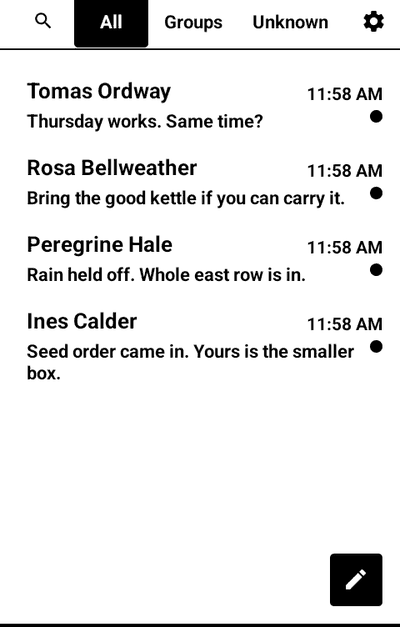
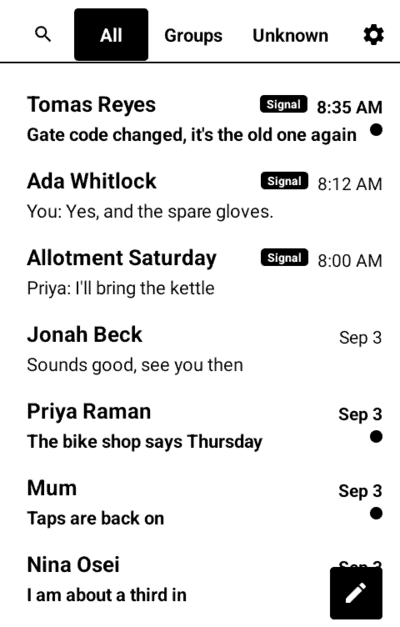
Messaging's card shows the inbox as it is now
Signal and text conversations together, with the badge on the Signal rows,
from the 1.26.0 screenshots.

diff --git a/index.html b/index.html
@@ -126,7 +126,7 @@ white, no animation, lists you can read in sunlight.</p>
 
 <div class="app">
   <img class="shot" src="shots/kotozute.png" width="400" height="627" loading="lazy"
-       alt="The Messaging inbox: four conversations, newest first">
+       alt="The Messaging inbox: Signal and text conversations in one list, newest first">
   <h3>Messaging</h3>
   <p>SMS, MMS and Signal in one inbox, and a page your phone serves to your own computer so
   you can text from a keyboard.</p>
